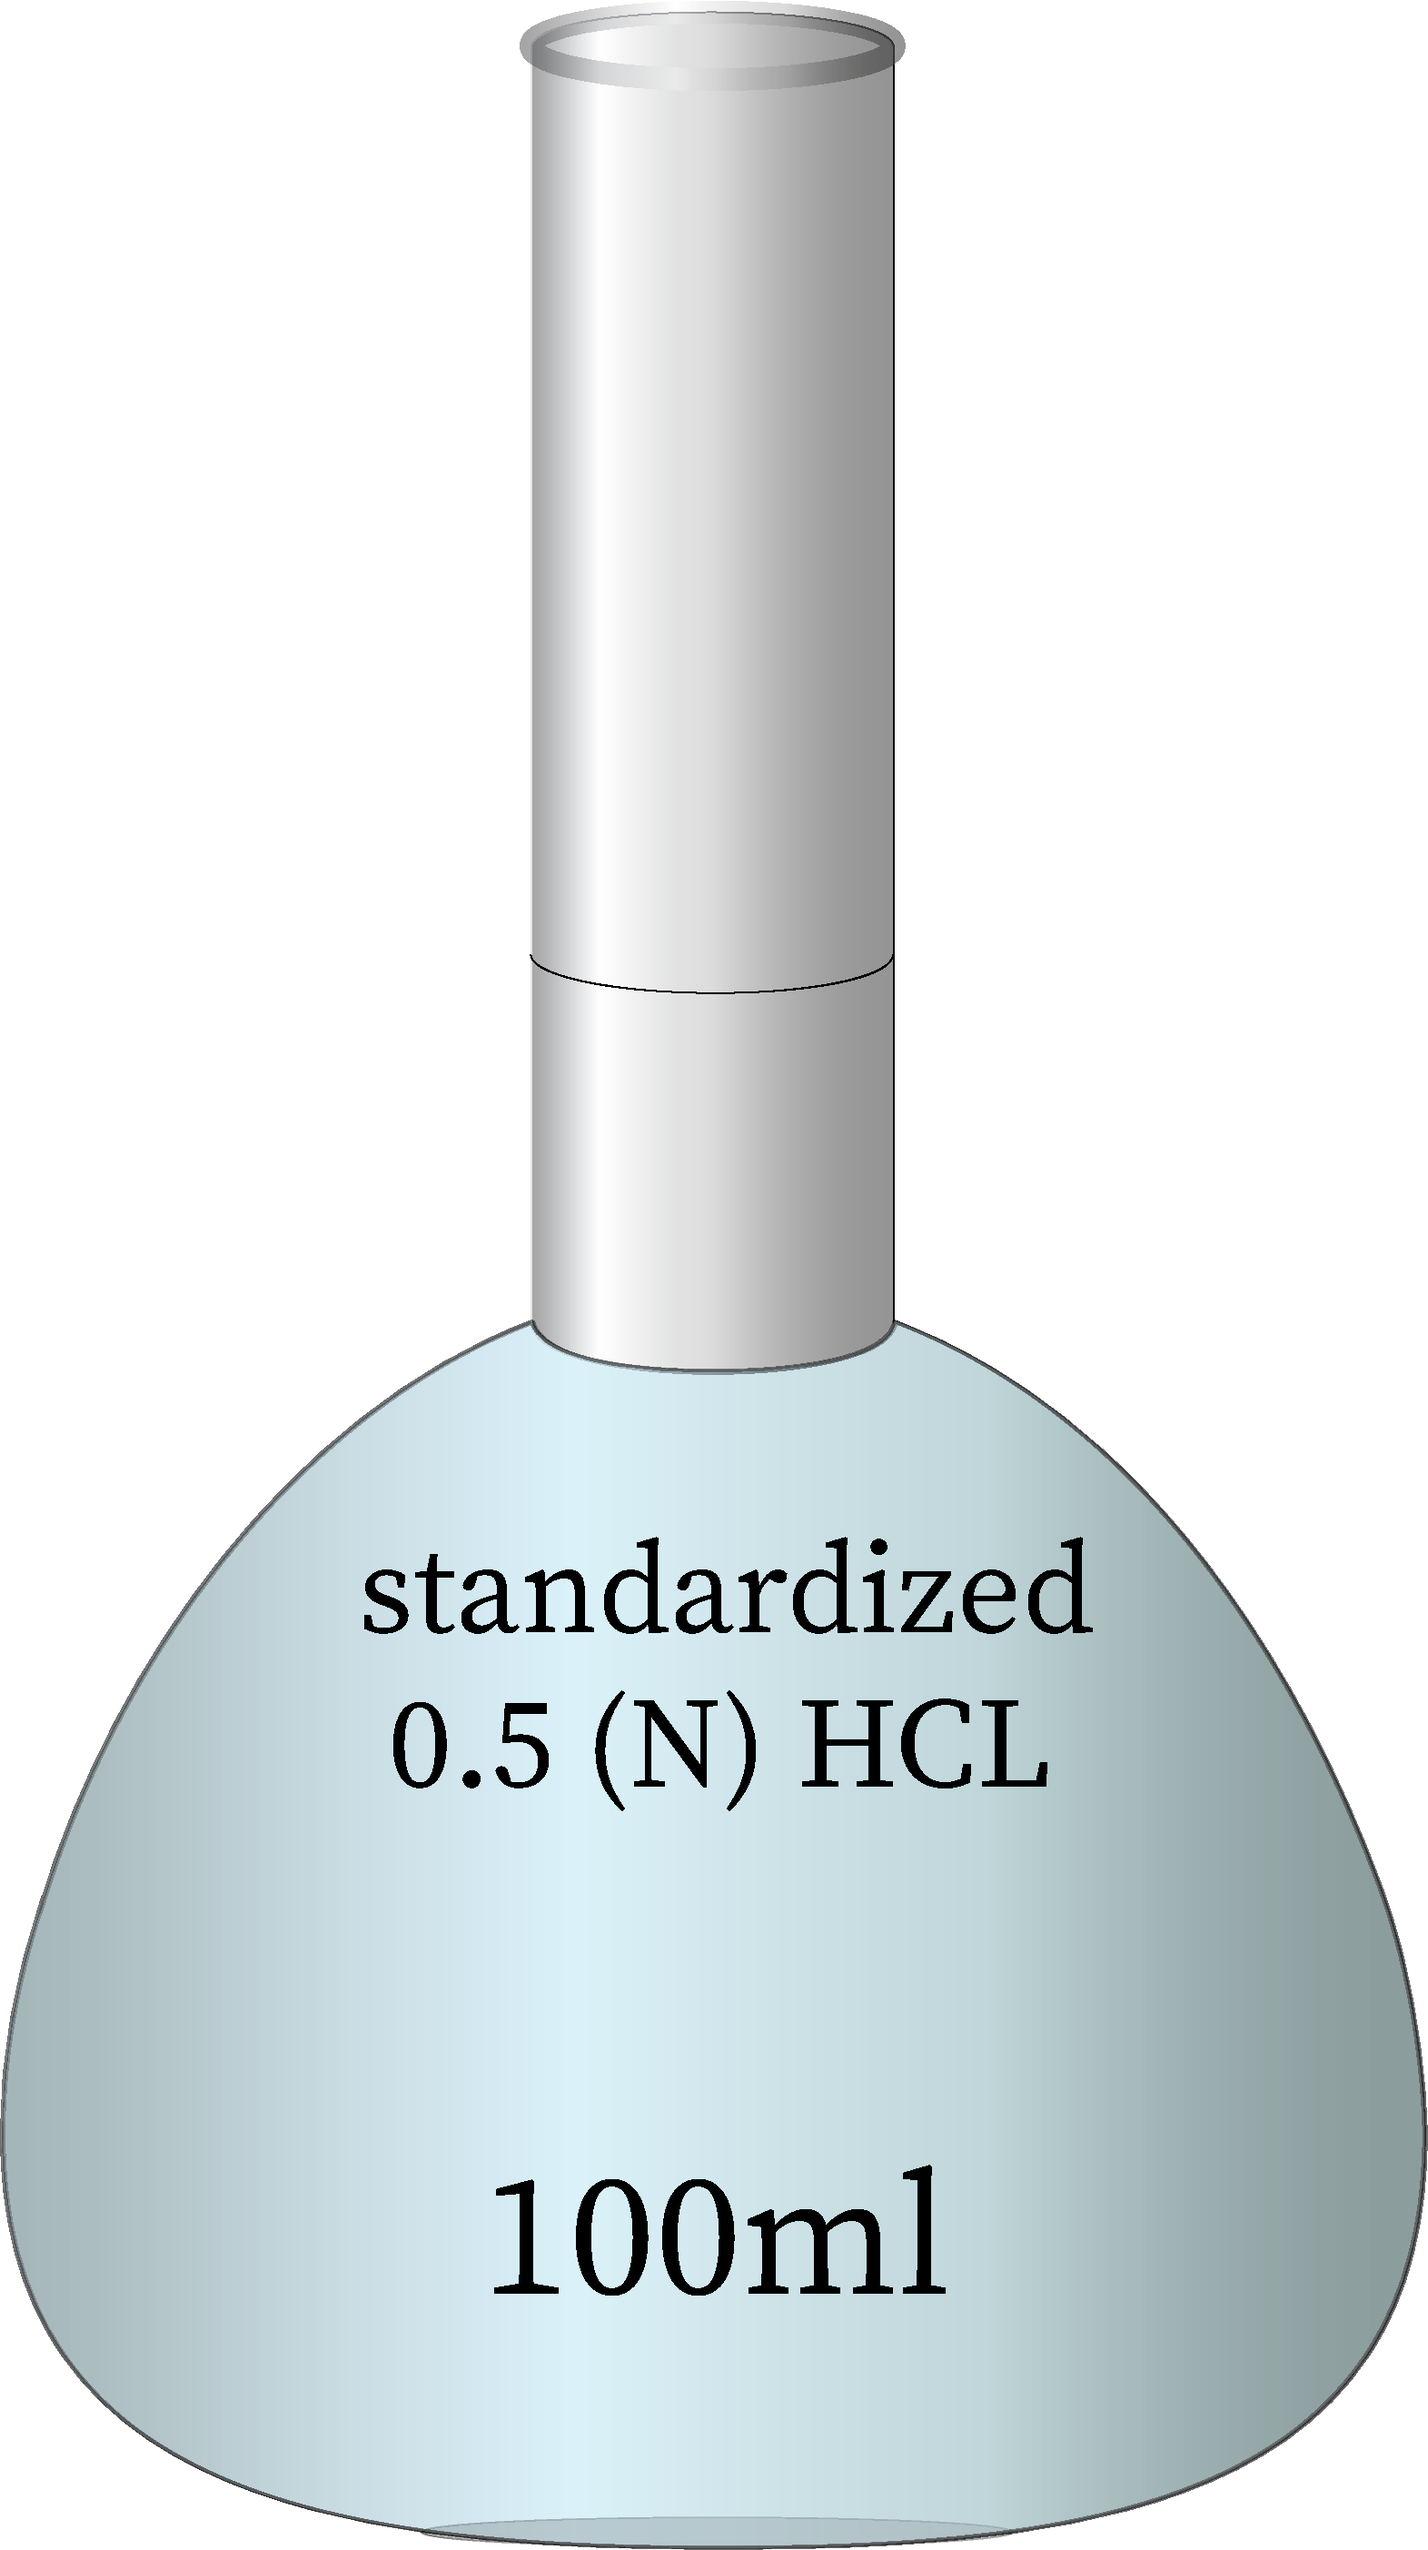
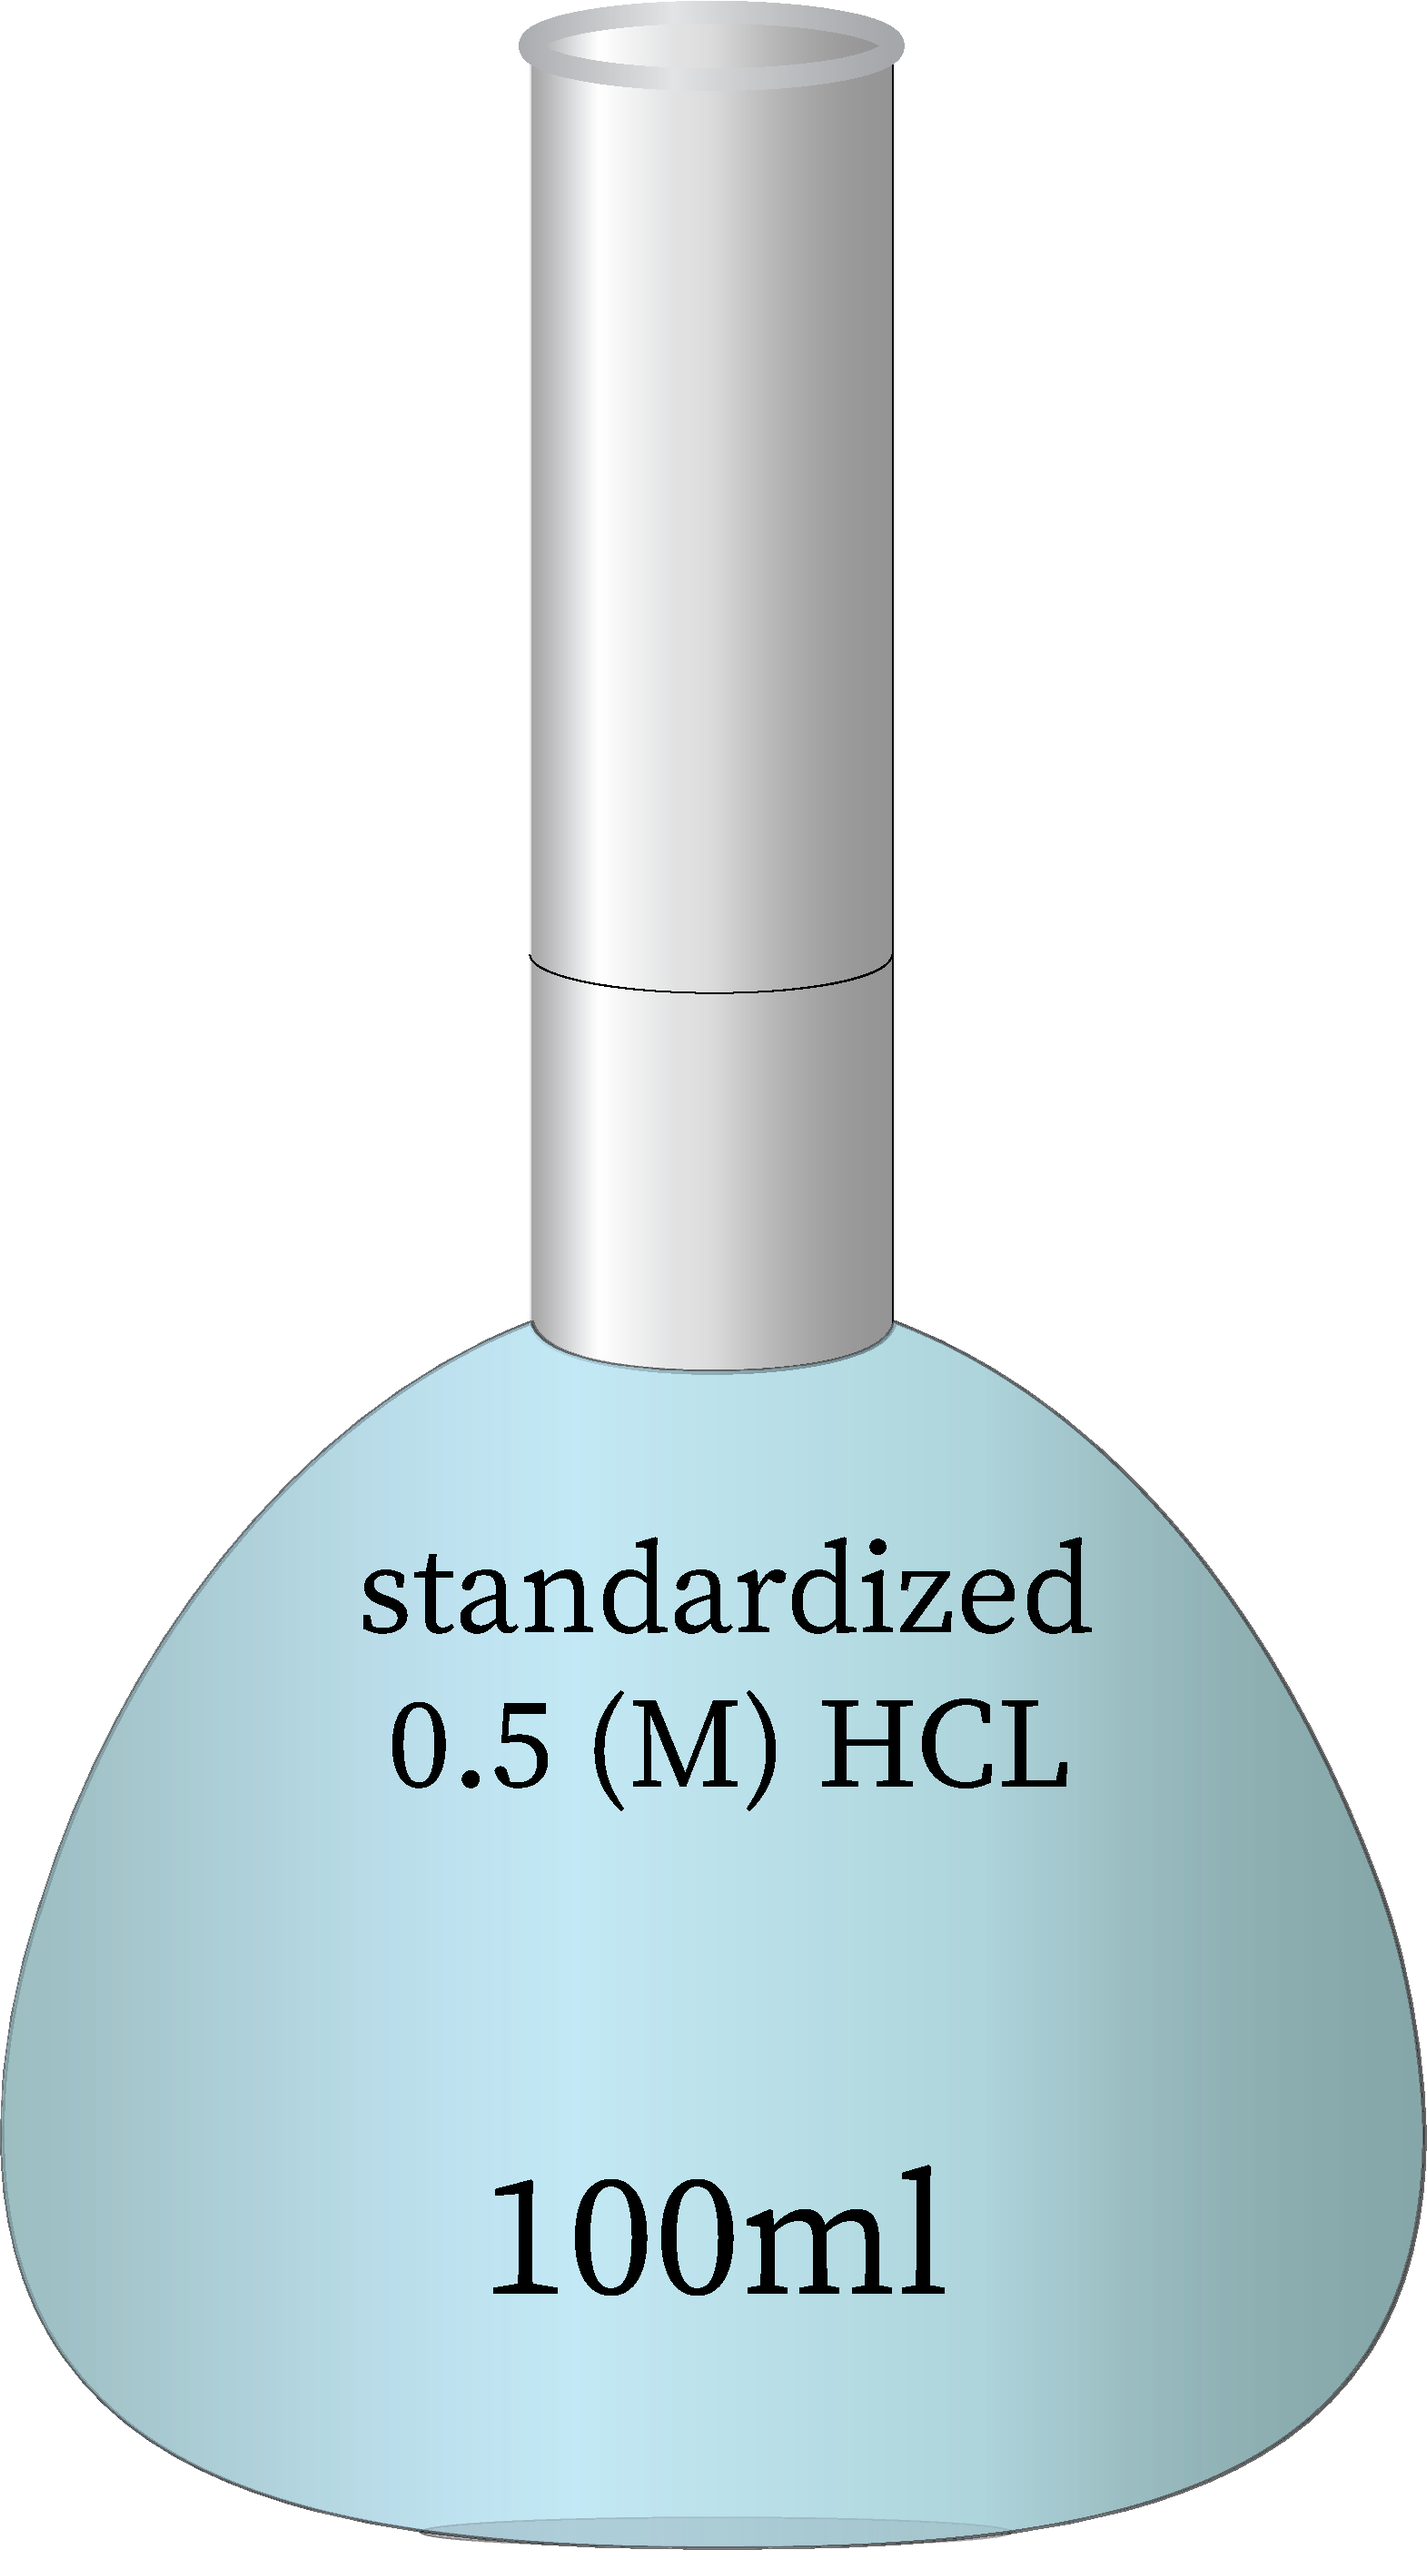
all corrections done

diff --git a/experiment/simulation/script/project.js b/experiment/simulation/script/project.js
@@ -8,14 +8,14 @@ var hmessage=["प्रयोग शुरू करने के लिए स
     "KOH फ्लास्क में फिनोलफ्थलीन इंडिकेटर की कुछ बूंदें डालें",
     "अब फ्लास्क को ब्यूरेट के नीचे रखें",
     "ब्यूरेट नोब पर तब तक क्लिक करें जब तक आपको घोल का पारदर्शी रंग न मिल जाए",
-    "यह जानने के लिए ब्यूरेट में दिखाई गई रीडिंग को नोट करें कि 15ml 0.5(N) KOH घोल को टाइट्रेट करने के लिए कितना HCL घोल इस्तेमाल किया गया है",
+    "यह जानने के लिए ब्यूरेट में दिखाई गई रीडिंग को नोट करें कि 15ml 0.5(M) KOH घोल को टाइट्रेट करने के लिए कितना HCL घोल इस्तेमाल किया गया है",
     "फ्लास्क पर क्लिक करके उसे उसकी मूल स्थिति में रखें",
     "30 मिनट पूरे होने तक प्रतीक्षा करें",
     "oil sample को हीट मशीन से उठाने के लिए उस पर क्लिक करें",
     "फ़िनोल्फ़थेलीन की कुछ बूँदें जोड़ें",
     "फ्लास्क को ब्यूरेट के नीचे रखें",
     "ब्यूरेट नोब पर तब तक क्लिक करें जब तक आपको घोल का पारदर्शी रंग न मिल जाए",
-    "यह जानने के लिए ब्यूरेट में दिखाए गए रीडिंग को फिर से नोट करें कि 15ml 0.5(N) KOH घोल के साथ oil को टाइट्रेट करने के लिए कितना HCL घोल उपयोग किया गया है",
+    "यह जानने के लिए ब्यूरेट में दिखाए गए रीडिंग को फिर से नोट करें कि 15ml 0.5(M) KOH घोल के साथ oil को टाइट्रेट करने के लिए कितना HCL घोल उपयोग किया गया है",
     "फ्लास्क पर क्लिक करके उसे उसकी मूल स्थिति में रखें",
     "सटीक परिणाम प्राप्त करने के लिए इस प्रक्रिया को दो बार और दोहराएं",
     "Observations देखने के लिए Observations बटन दबाएँ",
@@ -31,14 +31,14 @@ var message=["Press start button to start the experiment",
     "add some drops of phenolphthlein indicator in KOH flask",
     "now put flask under the burette",
     "click on burette nob until you get the transparent colour of the solution",
-    "note down the reading shown in the burette to know how much solution is used to titrate 15ml of 0.5(N) KOH solution",
+    "note down the reading shown in the burette to know how much solution is used to titrate 15ml of 0.5(M) KOH solution",
     "put flask at their original postion by clicking on it",
     "wait to complete 30 minutes",
     "click on the oil sample to raise it from the heat machine",
     "add some drops of phenolphthalien",
     "put the flask under the burette",
     "click on burette nob until you get the transparent colour of the solution",
-    "again note down the reading shown in the burette to know how much solution is used to titrate oil with 15ml of 0.5(N) KOH solution",
+    "again note down the reading shown in the burette to know how much solution is used to titrate oil with 15ml of 0.5(M) KOH solution",
     "put flask at their original postion by clicking on it",
     "repeat this process two more times to get accurate results",
     "to see observations press observations button",
@@ -82,6 +82,7 @@ function start(){
     else if(f==2000){
         tablesdiv.style.visibility="visible"
         f=3000
+        mes.innerText="Congratulations! You have completed the experiment successfully."
     }
 }
 

diff --git a/experiment/simulation/script/titration.js b/experiment/simulation/script/titration.js
@@ -33,15 +33,21 @@ function flask1(){
         t=10
         messcounter=8
         update()
+        clicker.style.opacity="100%"
+        clicker.style.animationIterationCount="infinite"
     }
     else if(f==21){
         // console.log(f)
-        f=22
+        f=25
         koh15.style.left="50%"
         koh15.style.scale="1"
         koh15.style.top="50%"
         messcounter=11
         update()
+        if(heaterstatus=="done"){
+            messcounter=12
+            update()
+        }
         // setTimeout(function(){
         //     messcounter=12
         //     update()
@@ -72,6 +78,8 @@ function flask2(){
         t=2
         messcounter=15
         update()
+        clicker.style.opacity="100%"
+        clicker.style.animationIterationCount="infinite"
     }
     else if(f==39){
         // console.log(f)
@@ -80,6 +88,7 @@ function flask2(){
         kohoil.style.scale="1"
         kohoil.style.top="50%"
         startbutton.style.visibility="visible"
+        startbutton.innerText="Repeat"
         // console.log(trial)
         messcounter=18
         trial1()
@@ -95,6 +104,8 @@ function flask2(){
 function titrate(){
     if(t==10){
         if(f!=20){
+            clicker.style.opacity="0%"
+            clicker.style.animationIterationCount="0"
             drop.style.transitionDuration="1s"
             drop.style.visibility="visible"
             f+=1
@@ -122,13 +133,13 @@ function titrate(){
                 setTimeout(function(){
                     phvari.style.visibility="hidden"
                     burette.style.visibility="hidden"
-                    ptext.innerText="Note down the burette reading to see how much 0.5(N) HCL solution used to titrate 15ml KOH solution"
+                    ptext.innerText="Note down the burette reading to see how much 0.5(M) HCL solution used to titrate 15ml KOH solution"
                     popuphider()
-                    f=21
                     t=11
                     messcounter=9
                     update()
                     setTimeout(function(){
+                        f=21
                         messcounter=10
                         update()
                     },15000)
@@ -143,6 +154,8 @@ function titrate(){
 
     else if(t==2){
         if(f!=38){
+            clicker.style.opacity="0%"
+            clicker.style.animationIterationCount="0"
             // console.log(f)
             drop.style.transitionDuration="1s"
             drop.style.visibility="visible"
@@ -171,13 +184,13 @@ function titrate(){
                 setTimeout(function(){
                     kohoilp.style.visibility="hidden"
                     b20.style.visibility="hidden"
-                    ptext.innerText="Note down the burette reading again to see how much 0.5(N) HCL solution used to titrate oil with 15ml KOH solution"
+                    ptext.innerText="Note down the burette reading again to see how much 0.5(M) HCL solution used to titrate oil with 15ml KOH solution"
                     popuphider()
-                    f=39
                     t=4
                     messcounter=16
                     update()
                     setTimeout(function(){
+                        f=39
                         messcounter=17
                         update()
                     },15000)
@@ -196,10 +209,12 @@ function titrate(){
 function trial1(){
     if(trial=="1st"){
         trial="2nd"
+        heaterstatus="notdone"
     }
     else if(trial=="2nd"){
         trial="3rd"
         messcounter=20
+        heaterstatus="notdone"
     }
     else if(trial=="3rd"){
         trial="end"

diff --git a/experiment/simulation/script/newsteps.js b/experiment/simulation/script/newsteps.js
@@ -29,6 +29,8 @@ var ptext = document.querySelector("#ptext")
 var phvari
 var phvari2
 
+var heaterstatus = "notdone"
+
 
 
 function phenolph(){
@@ -36,6 +38,7 @@ function phenolph(){
         f=12
         pc.style.top="20%"
         setTimeout(function(){
+            drop.style.transitionDuration="1s"
             pc.style.left="42.5%"
             drop.style.left="43.3%"
             drop.style.top="53%"
@@ -163,7 +166,7 @@ function oilflask(){
             },1000)
         },1000)
     }
-    else if(f==25){
+    else if(f==25 && heaterstatus=="done"){
         f=26
         kohoil.style.top="15%"
         setTimeout(function(){
@@ -199,13 +202,15 @@ function nob(){
             watch.style.visibility="visible"
             resetBtn()
             startBtn()
-            setTimeout(function(){
-                stopBtn()
-                heaterdone.style.opacity="100%"
-                f=25
-                messcounter=12
-                update()
-            },470000)
+///////////////////////////////////////////////////////////////////////////////////////////////////////////////////////////////////////////////
+            // setTimeout(function(){
+            //     stopBtn()
+            //     heaterdone.style.opacity="100%"
+            //     f=25
+            //     messcounter=12
+            //     update()
+            // },470000)
+/////////////////////////////////////////////////////////////////////////////////////////////////////////////////////////////////////////////////
         },1000)
         f=9
     }
@@ -224,6 +229,8 @@ function popuphider(){
 function hcl(){
     if (f==9){
         f=10
+        funnel.style.transitionDuration="1s"
+        hclhalf.style.transitionDuration="1s"
         eburette.style.scale="0.8"
         burette.style.scale="0.8"
         eburette.style.top="12%"

diff --git a/experiment/simulation/css/style.css b/experiment/simulation/css/style.css
@@ -32,6 +32,7 @@ body{
     width: 99.8vmax;
     background-color: red;
     position: relative;
+    overflow: hidden;
 }
 
 .header{
@@ -50,12 +51,14 @@ body{
     text-align: center;
     font-weight: bold;
     text-decoration: underline;
+    padding-left: 1%;
 }
 
 #text{
     font-size: 1.5vw;
     font-weight: 100;
     color: rgb(251, 255, 8);
+    padding-left: 1% ;
 }
 
 .footer{
@@ -65,6 +68,7 @@ body{
     height: 42.8vmax;
     width: 100%;
     background-color: rgb(226, 239, 33);
+    overflow: hidden;
 }
 
 #experiment{
@@ -75,6 +79,7 @@ body{
     background-color: blueviolet;
     /* border: 1px solid black; */
     /* visibility: hidden; */
+    overflow: hidden;
 }
 
 #start{
@@ -519,6 +524,13 @@ body{
     top: 49%;
     left: 15%;
     visibility: hidden;
+    opacity: 0%;
+    animation: blinking;
+    animation-iteration-count: 0;
+    animation-duration: 1s;
+    background-color: rgb(29, 229, 255);
+    transition: all;
+    transition-duration: 1s;
 
 
 

diff --git a/experiment/simulation/script/stopwatch.js b/experiment/simulation/script/stopwatch.js
@@ -44,10 +44,22 @@ function stopWatch() {
         if (second < 10) { 
             secString = "0" + secString; 
         } 
-  
-  
+        
         document.getElementById('min').innerHTML = minString; 
         document.getElementById('sec').innerHTML = secString; 
-        setTimeout(stopWatch, 250); 
+
+        if ((parseInt(document.querySelector("#min").innerText) == 30) && (parseInt(document.querySelector("#sec").innerText) == 0)){
+            stopBtn()
+            heaterdone.style.opacity="100%"
+            heaterstatus="done"
+            // messcounter=12
+            // update()
+            if(f==25){
+                messcounter=12
+                update()
+            }
+        }
+  
+        setTimeout(stopWatch, 30); 
     } 
 }

diff --git a/experiment/simulation/index.html b/experiment/simulation/index.html
@@ -34,7 +34,7 @@
                 <img id="heaterdone" src="images/heater-done.png" alt="">
 
                 <div id="watch">
-                  <h3 id="timetext">stopwatch 4x >></h3>
+                  <h3 id="timetext">stopwatch 33x >></h3>
 
                   <div id="time"> 
                     <span class="digit" id="min">00</span> 
